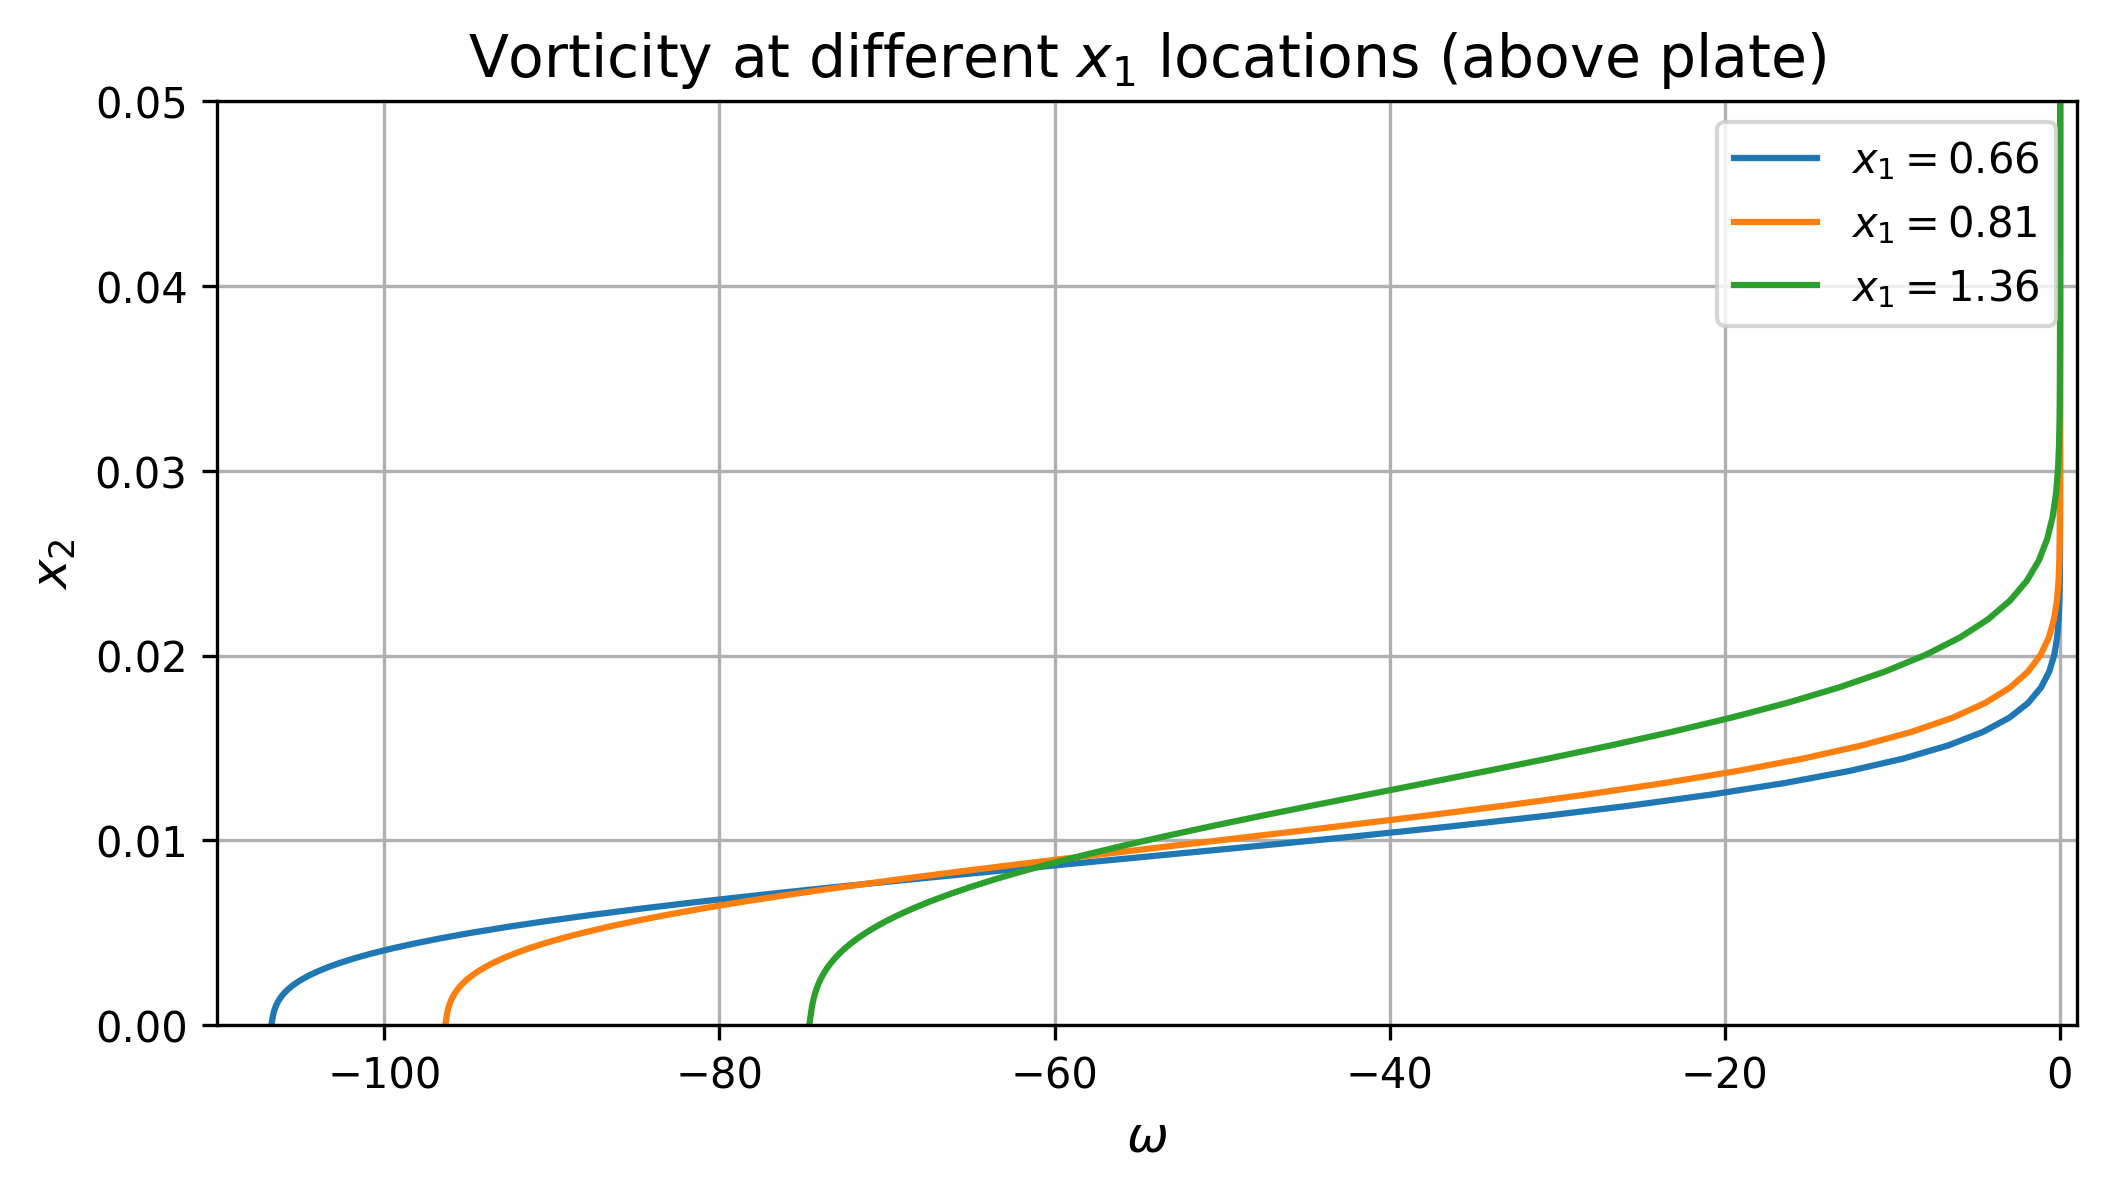
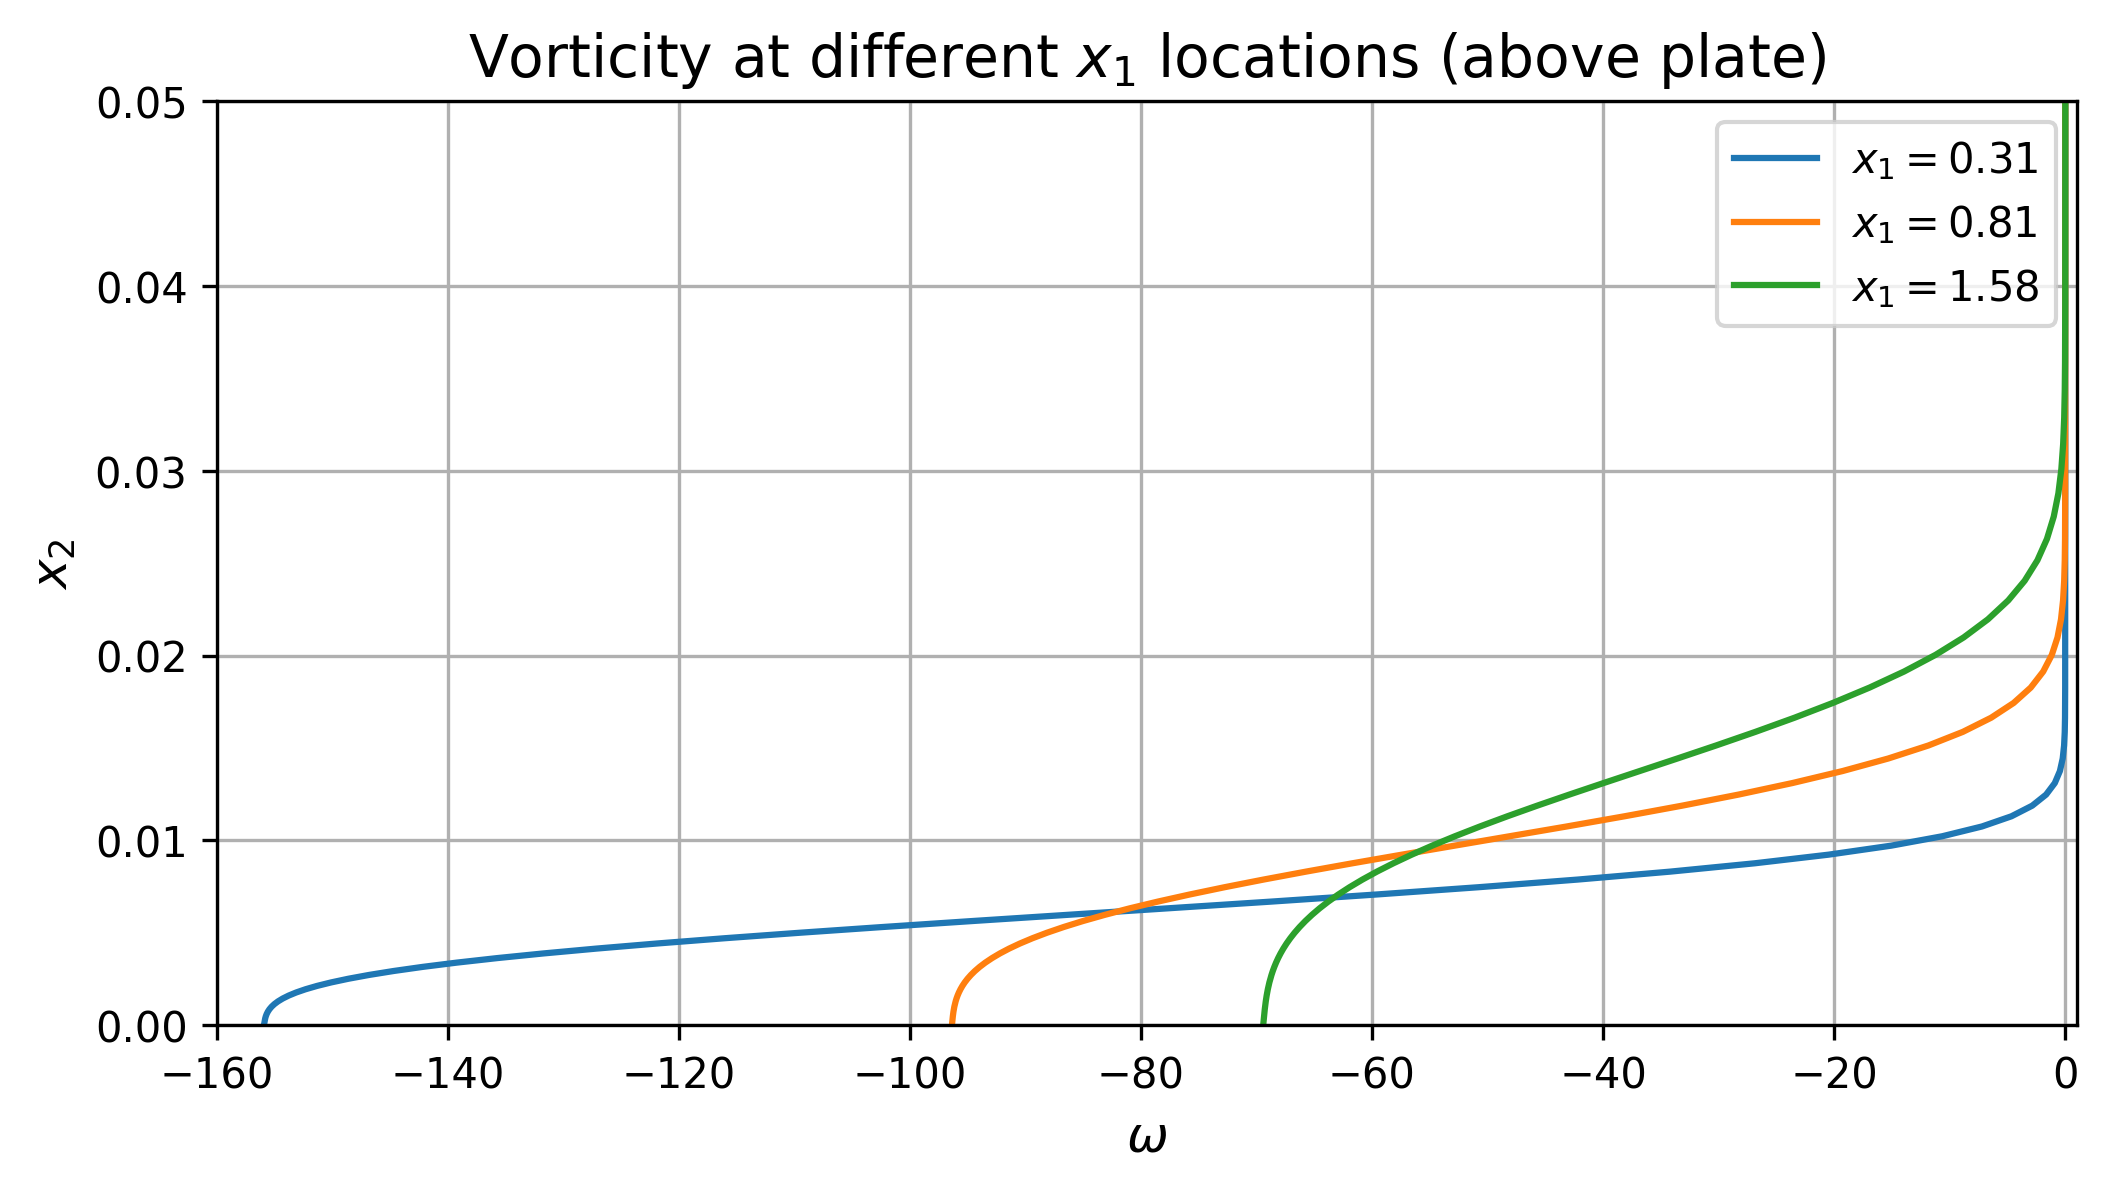
.

diff --git a/TME226/A1 (TME226) - Martin.py b/TME226/A1 (TME226) - Martin.py
@@ -552,15 +552,15 @@ omega_3 = dvdx - dudy
 # print('vorticity: ',omega_3)
 
 plt.figure()
-i = 85
+i = 50
 plt.plot(omega_3[i,:], x2_2d[i,:], label=fr'$x_1={xc[i]:.2f}$')
 i=100
 plt.plot(omega_3[i,:], x2_2d[i,:], '-', label=fr'$x_1={xc[i]:.2f}$')
-i=150
+i=170
 plt.plot(omega_3[i,:], x2_2d[i,:], '-', label=fr'$x_1={xc[i]:.2f}$')
 
 plt.title(fr'Vorticity at different $x_1$ locations (above plate)')
-plt.axis([-110,1,-0,0.05])
+plt.axis([-160,1,-0,0.05])
 plt.xlabel('$\omega$')
 plt.ylabel('$x_2$')
 plt.legend()
@@ -609,7 +609,8 @@ print('dudy: ', dudy)
 print('dvdx: ', dvdx) # basically = 0
 print('max value of dvdx: ', np.unravel_index(np.argmax(dvdx, axis=None), dvdx.shape)[0])
 # print(S12)
-# print(Omega12)
+print(Omega12[20,0])
+print(dudy[20,0])
 
 max_i = np.unravel_index(np.argmax(S12_cut, axis=None), S12_cut.shape)[0]
 
@@ -691,8 +692,16 @@ i = 20
 plt.plot(S12[i,:], yp, 'r-', label='$S_{12}$' + fr', $x_1={xc[i]:.2f}$')
 plt.plot(Omega12[i,:], yp, 'b--', label='$\Omega_{12}$' + fr', $x_1={xc[i]:.2f}$')
 
+i = 19
+plt.plot(S12[i,:], yp, 'g-', label='$S_{12}$' + fr', $x_1={xc[i]:.2f}$')
+plt.plot(Omega12[i,:], yp, 'y--', label='$\Omega_{12}$' + fr', $x_1={xc[i]:.2f}$')
+
+i = 18
+plt.plot(S12[i,:], yp, 'm-', label='$S_{12}$' + fr', $x_1={xc[i]:.2f}$')
+plt.plot(Omega12[i,:], yp, 'k--', label='$\Omega_{12}$' + fr', $x_1={xc[i]:.2f}$')
+
 plt.title(fr'Shear and Vorticity, plate border')
-plt.axis([-15,1000,0,0.005])
+plt.axis([-100,1000,0,0.005])
 plt.xlabel('$S_{12}, \\Omega_{12}$')
 plt.ylabel('$x_2$')
 plt.legend()
@@ -747,35 +756,43 @@ print("  Std:", np.std(Phi))
 
 print("  Order of magnitude:", np.log10(np.abs(Phi[Phi != 0]).mean()))
 
-fig2 = plt.figure("Phi")
+fig2 = plt.figure()
 # plt.contourf(x1_2d[50,:], x2_2d[50,:], Phi, 50)
 # plt.pcolormesh(x1_2d, x2_2d, Phi, shading = 'auto', cmap='plasma')
 # plt.plot(x1_2d[50,:], x2_2d[50,:], Phi)
 # plt.plot(x1_2d[50,:], x2_2d[50,:], Phi[50,:])
-Phi_plot = np.log10(Phi)
+Phi_log = np.log10(Phi)
 
-plt.contourf(x1_2d, x2_2d, Phi_plot, levels=100, cmap='viridis')
+plt.contourf(x1_2d, x2_2d, Phi_log, levels=50, cmap='viridis')
 # plt.contour(x1_2d, x2_2d, Phi_plot)
 # plt.pcolormesh(x1_2d, x2_2d, Phi, shading = 'auto', cmap='plasma')
 
-# plt.colorbar(label=r'$\log_{10}(\Phi)$')
+
 plt.axis([-0.2,xc[-1],0, yc[-1]])
 plt.xlabel("$x_1$")
 plt.ylabel("$x_2$")
-plt.title("contour dissipation plot")
-plt.title(fr'$\Phi_1$')
-# plt.colorbar()
+plt.title("contour dissipation ($\Phi_1$)")
+plt.colorbar(label=r'$\log_{10}(\Phi)$')
 plt.savefig('E7_1', dpi=dpi, bbox_inches='tight')
+plt.show()
+
+
+fig2 = plt.figure()
+
+plt.contourf(x1_2d, x2_2d, Phi_log, levels=20, cmap='viridis')
+
+plt.axis([-0.05,0.15,0, 0.003])
+plt.xlabel("$x_1$")
+plt.ylabel("$x_2$")
+plt.title("contour dissipation ($\Phi_1$), plate border")
+plt.colorbar(label=r'$\log_{10}(\Phi)$')
+plt.savefig('E7_2', dpi=dpi, bbox_inches='tight')
 plt.show()
 
 from scipy import integrate
 
-# If you have 1D coordinate arrays
-x1 = x1_2d[:, 0]  # or however you define x1
-x2 = x2_2d[0, :]  # or however you define x2
-
 # Double integral over the entire domain
-integral = integrate.trapezoid(integrate.trapezoid(Phi, x1, axis=0), x2)
+integral = integrate.trapezoid(integrate.trapezoid(Phi, xp, axis=0), yp)
 print(f"Double integral of Phi: {integral:.20f}")
 
 rho = 1.204   # air density [kg/m^3]
